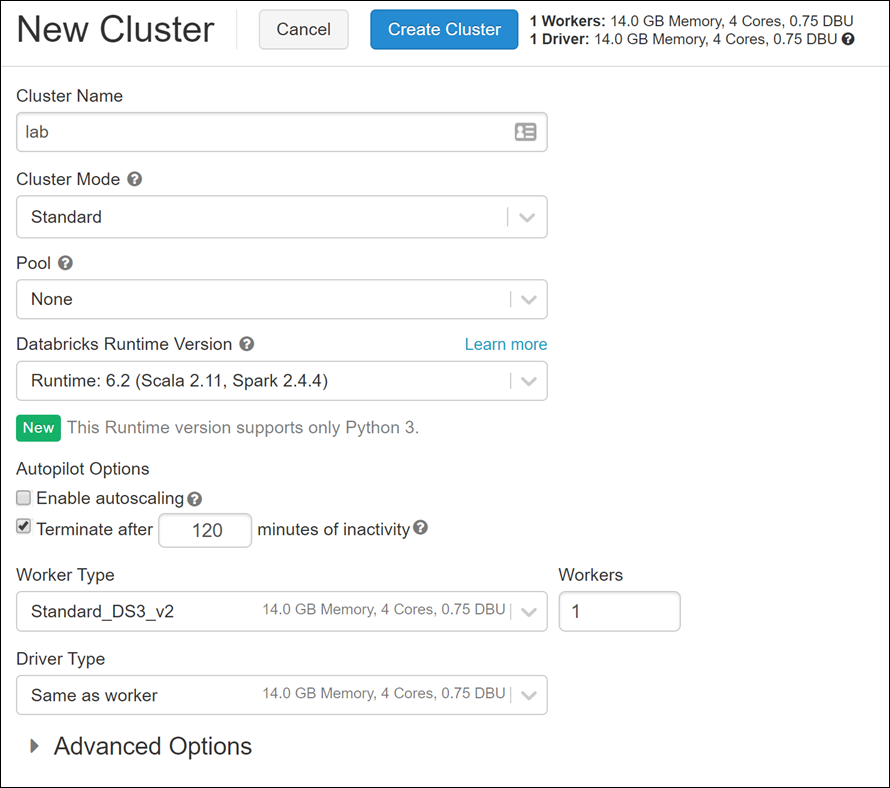
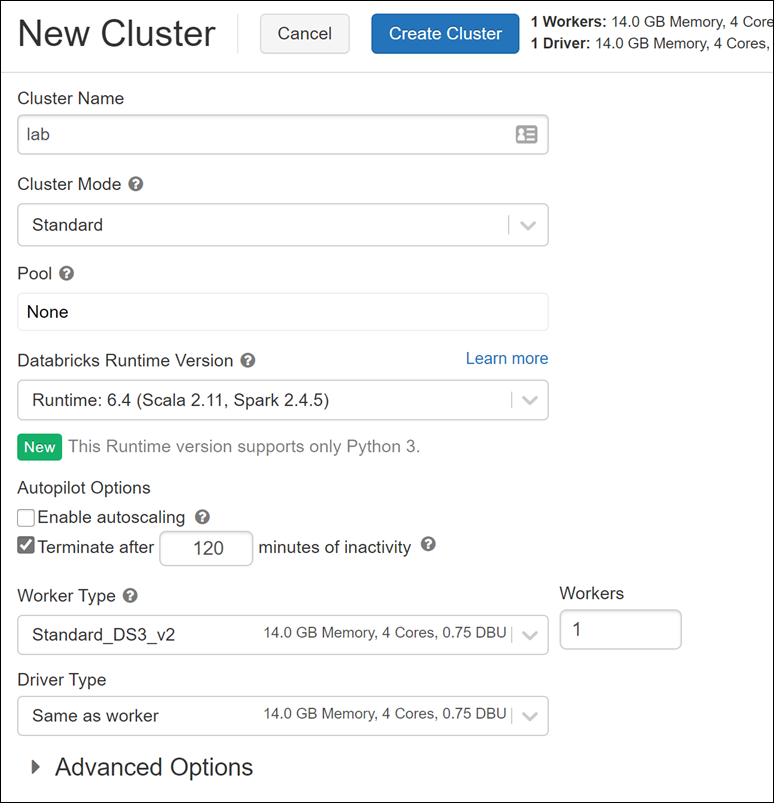
Update before the HOL

diff --git a/Hands-on lab/Before the HOL - Predictive Maintenance for remote field devices.md b/Hands-on lab/Before the HOL - Predictive Maintenance for remote field devices.md
@@ -9,7 +9,7 @@ Before the hands-on lab setup guide
 </div>
 
 <div class="MCWHeader3">
-December 2019
+May 2020
 </div>
 
 Information in this document, including URL and other Internet Web site references, is subject to change without notice. Unless otherwise noted, the example companies, organizations, products, domain names, e-mail addresses, logos, people, places, and events depicted herein are fictitious, and no association with any real company, organization, product, domain name, e-mail address, logo, person, place or event is intended or should be inferred. Complying with all applicable copyright laws is the responsibility of the user. Without limiting the rights under copyright, no part of this document may be reproduced, stored in or introduced into a retrieval system, or transmitted in any form or by any means (electronic, mechanical, photocopying, recording, or otherwise), or for any purpose, without the express written permission of Microsoft Corporation.
@@ -18,7 +18,7 @@ Microsoft may have patents, patent applications, trademarks, copyrights, or othe
 
 The names of manufacturers, products, or URLs are provided for informational purposes only and Microsoft makes no representations and warranties, either expressed, implied, or statutory, regarding these manufacturers or the use of the products with any Microsoft technologies. The inclusion of a manufacturer or product does not imply endorsement of Microsoft of the manufacturer or product. Links may be provided to third party sites. Such sites are not under the control of Microsoft and Microsoft is not responsible for the contents of any linked site or any link contained in a linked site, or any changes or updates to such sites. Microsoft is not responsible for webcasting or any other form of transmission received from any linked site. Microsoft is providing these links to you only as a convenience, and the inclusion of any link does not imply endorsement of Microsoft of the site or the products contained therein.
 
-© 2019 Microsoft Corporation. All rights reserved.
+© 2020 Microsoft Corporation. All rights reserved.
 
 Microsoft and the trademarks listed at <https://www.microsoft.com/en-us/legal/intellectualproperty/Trademarks/Usage/General.aspx> are trademarks of the Microsoft group of companies. All other trademarks are property of their respective owners.
 
@@ -101,11 +101,10 @@ Azure Databricks is used to train and deploy a machine learning model that predi
    | Resource Group                 | _select use existing, then `Fabrikam_Oil`_ |
    | Location                       | _select the location nearest to you_       |
    | Pricing tier                   | _select Standard_                          |
-   | Deploy in your Virtual Network | _select No_                                |
 
    ![The form fields are completed with the previously described settings.](media/azure-create-databricks.png 'Azure Databricks Service')
 
-5. Select **Create**.
+5. Select **Review + Create**. On the review screen, select **Create**.
 
 ### Task 3: Create Azure Databricks cluster
 
@@ -126,7 +125,7 @@ Azure Databricks is used to train and deploy a machine learning model that predi
    | Cluster name               | _enter `lab`_                                                                                |
    | Cluster Mode               | _select `Standard`_                                                                          |
    | Pool                       | _select `None`_                                                                              |
-   | Databricks Runtime Version | _select `Runtime 6.2 (Scala 2.11, Spark 2.4.4)`_                                         |
+   | Databricks Runtime Version | _select `Runtime 6.4 (Scala 2.11, Spark 2.4.5)`_                                         |
    | Autopilot Options          | _uncheck `Enable autoscaling` and check `Terminate after...`, with a value of `120` minutes_ |
    | Worker Type                | _select `Standard_DS3_v2`_                                                                   |
    | Driver Type                | _select `Same as worker`_                                                                    |
@@ -174,7 +173,7 @@ In this task, you will import the Databricks notebooks into your workspace.
 
    ![The form fields are completed with the previously described settings.](media/azure-create-aml.png 'Machine Learning service workspace')
 
-5. Select **Create**.
+5. Select **Review + Create**. On the review screen, select **Create**.
 
 ### Task 6: Download the lab files
 

diff --git a/Whiteboard design session/WDS student guide - Predictive Maintenance for remote field devices.md b/Whiteboard design session/WDS student guide - Predictive Maintenance for remote field devices.md
@@ -9,7 +9,7 @@ Whiteboard design session student guide
 </div>
 
 <div class="MCWHeader3">
-December 2019
+May 2020
 </div>
 
 Information in this document, including URL and other Internet Web site references, is subject to change without notice. Unless otherwise noted, the example companies, organizations, products, domain names, e-mail addresses, logos, people, places, and events depicted herein are fictitious, and no association with any real company, organization, product, domain name, e-mail address, logo, person, place or event is intended or should be inferred. Complying with all applicable copyright laws is the responsibility of the user. Without limiting the rights under copyright, no part of this document may be reproduced, stored in or introduced into a retrieval system, or transmitted in any form or by any means (electronic, mechanical, photocopying, recording, or otherwise), or for any purpose, without the express written permission of Microsoft Corporation.
@@ -18,7 +18,7 @@ Microsoft may have patents, patent applications, trademarks, copyrights, or othe
 
 The names of manufacturers, products, or URLs are provided for informational purposes only, and Microsoft makes no representations and warranties, either expressed, implied, or statutory, regarding these manufacturers or the use of the products with any Microsoft technologies. The inclusion of a manufacturer or product does not imply endorsement of Microsoft of the manufacturer or product. Links may be provided to third-party sites. Such sites are not under the control of Microsoft and Microsoft is not responsible for the contents of any linked site or any link contained in a linked site, or any changes or updates to such sites. Microsoft is not responsible for webcasting or any other form of transmission received from any linked site. Microsoft is providing these links to you only as a convenience, and the inclusion of any link does not imply endorsement of Microsoft of the site or the products contained therein.
 
-© 2019 Microsoft Corporation. All rights reserved.
+© 2020 Microsoft Corporation. All rights reserved.
 
 Microsoft and the trademarks listed at <https://www.microsoft.com/en-us/legal/intellectualproperty/Trademarks/Usage/General.aspx> are trademarks of the Microsoft group of companies. All other trademarks are the property of their respective owners.
 
@@ -30,6 +30,7 @@ Microsoft and the trademarks listed at <https://www.microsoft.com/en-us/legal/in
   - [Abstract and learning objectives](#abstract-and-learning-objectives)
   - [Step 1: Review the customer case study](#step-1-review-the-customer-case-study)
     - [Customer situation](#customer-situation)
+      - [Telemetry data](#telemetry-data)
     - [Customer needs](#customer-needs)
     - [Customer objections](#customer-objections)
     - [Infographic for common scenarios](#infographic-for-common-scenarios)

diff --git a/Whiteboard design session/WDS trainer guide - Predictive Maintenance for remote field devices.md b/Whiteboard design session/WDS trainer guide - Predictive Maintenance for remote field devices.md
@@ -9,7 +9,7 @@ Whiteboard design session trainer guide
 </div>
 
 <div class="MCWHeader3">
-December 2019
+May 2020
 </div>
 
 Information in this document, including URL and other Internet Web site references, is subject to change without notice. Unless otherwise noted, the example companies, organizations, products, domain names, e-mail addresses, logos, people, places, and events depicted herein are fictitious, and no association with any real company, organization, product, domain name, e-mail address, logo, person, place or event is intended or should be inferred. Complying with all applicable copyright laws is the responsibility of the user. Without limiting the rights under copyright, no part of this document may be reproduced, stored in or introduced into a retrieval system, or transmitted in any form or by any means (electronic, mechanical, photocopying, recording, or otherwise), or for any purpose, without the express written permission of Microsoft Corporation.
@@ -18,7 +18,7 @@ Microsoft may have patents, patent applications, trademarks, copyrights, or othe
 
 The names of manufacturers, products, or URLs are provided for informational purposes only and Microsoft makes no representations and warranties, either expressed, implied, or statutory, regarding these manufacturers or the use of the products with any Microsoft technologies. The inclusion of a manufacturer or product does not imply endorsement of Microsoft of the manufacturer or product. Links may be provided to third party sites. Such sites are not under the control of Microsoft and Microsoft is not responsible for the contents of any linked site or any link contained in a linked site, or any changes or updates to such sites. Microsoft is not responsible for webcasting or any other form of transmission received from any linked site. Microsoft is providing these links to you only as a convenience, and the inclusion of any link does not imply endorsement of Microsoft of the site or the products contained therein.
 
-© 2019 Microsoft Corporation. All rights reserved.
+© 2020 Microsoft Corporation. All rights reserved.
 
 Microsoft and the trademarks listed at https://www.microsoft.com/legal/intellectualproperty/Trademarks/Usage/General.aspx are trademarks of the Microsoft group of companies. All other trademarks are property of their respective owners.
 
@@ -34,6 +34,7 @@ Microsoft and the trademarks listed at https://www.microsoft.com/legal/intellect
   - [Abstract and learning objectives](#abstract-and-learning-objectives)
   - [Step 1: Review the customer case study](#step-1-review-the-customer-case-study)
     - [Customer situation](#customer-situation)
+      - [Telemetry data](#telemetry-data)
     - [Customer needs](#customer-needs)
     - [Customer objections](#customer-objections)
     - [Infographic for common scenarios](#infographic-for-common-scenarios)

diff --git a/Hands-on lab/HOL step-by step - Predictive Maintenance for remote field devices.md b/Hands-on lab/HOL step-by step - Predictive Maintenance for remote field devices.md
@@ -9,7 +9,7 @@ Hands-on lab step-by-step
 </div>
 
 <div class="MCWHeader3">
-December 2019
+May 2020
 </div>
 
 Information in this document, including URL and other Internet Web site references, is subject to change without notice. Unless otherwise noted, the example companies, organizations, products, domain names, e-mail addresses, logos, people, places, and events depicted herein are fictitious, and no association with any real company, organization, product, domain name, e-mail address, logo, person, place or event is intended or should be inferred. Complying with all applicable copyright laws is the responsibility of the user. Without limiting the rights under copyright, no part of this document may be reproduced, stored in or introduced into a retrieval system, or transmitted in any form or by any means (electronic, mechanical, photocopying, recording, or otherwise), or for any purpose, without the express written permission of Microsoft Corporation.
@@ -18,7 +18,7 @@ Microsoft may have patents, patent applications, trademarks, copyrights, or othe
 
 The names of manufacturers, products, or URLs are provided for informational purposes only and Microsoft makes no representations and warranties, either expressed, implied, or statutory, regarding these manufacturers or the use of the products with any Microsoft technologies. The inclusion of a manufacturer or product does not imply endorsement of Microsoft of the manufacturer or product. Links may be provided to third party sites. Such sites are not under the control of Microsoft and Microsoft is not responsible for the contents of any linked site or any link contained in a linked site, or any changes or updates to such sites. Microsoft is not responsible for webcasting or any other form of transmission received from any linked site. Microsoft is providing these links to you only as a convenience, and the inclusion of any link does not imply endorsement of Microsoft of the site or the products contained therein.
 
-© 2019 Microsoft Corporation. All rights reserved.
+© 2020 Microsoft Corporation. All rights reserved.
 
 Microsoft and the trademarks listed at <https://www.microsoft.com/en-us/legal/intellectualproperty/Trademarks/Usage/General.aspx> are trademarks of the Microsoft group of companies. All other trademarks are property of their respective owners.
 

diff --git a/README.md b/README.md
@@ -4,7 +4,7 @@ Fabrikam, Inc. creates innovated IoT solutions for the oil and gas manufacturing
 
 They would like to understand their options for expediting the implementation of the PoC. Specifically, they are looking to learn what offerings Azure provides that could enable a quick end-to-end start on the infrastructure for monitoring and managing devices and the system metadata. On top this, they are curious about what other platform services Azure provides that they should consider in this scenario.
 
-December 2019
+May 2020
 
 ## Target audience
 
